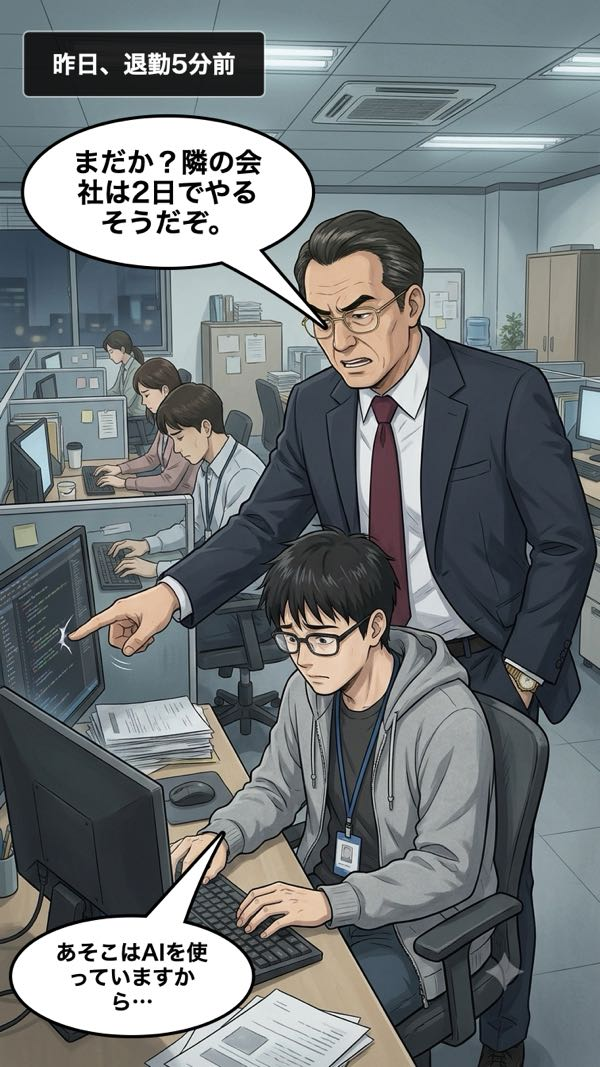
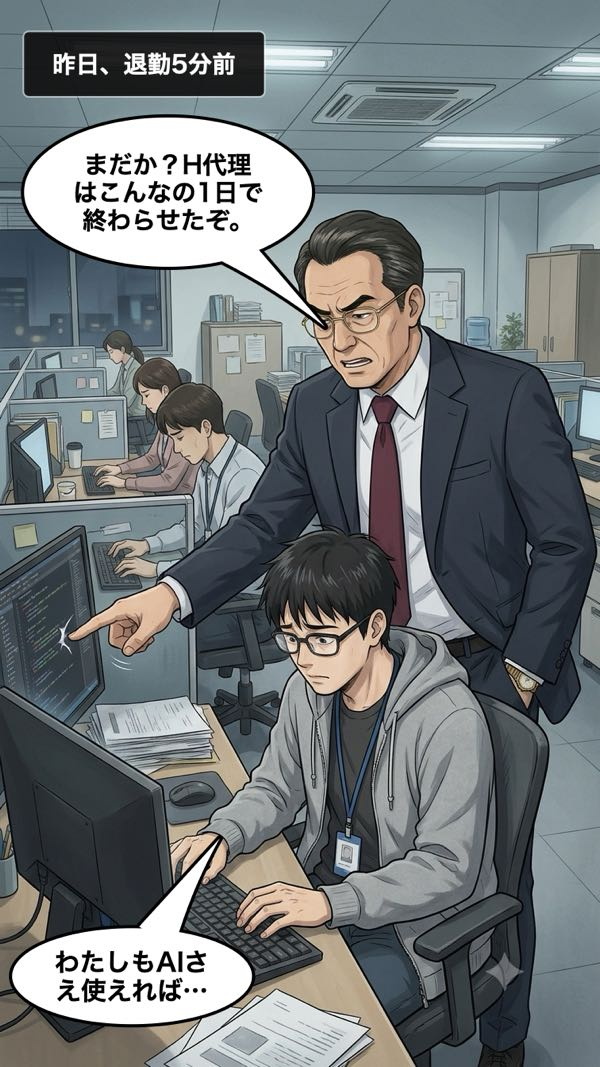
데모 만화 1화: H 선배 회상 컷 추가, 최 사장이 H와 비교하는 대사

Changed region(s): [[0.03, 0.7732, 0.42, 0.9897], [0.12, 0.1237, 0.45, 0.2165], [0.0, 0.8969, 0.03, 0.9278]]

diff --git a/demo/ja/scroll.html b/demo/ja/scroll.html
@@ -1,4 +1,4 @@
 <!doctype html><html lang="ja"><meta charset="utf-8"><title>開発者異世界 第1話（デモ）</title><meta name="viewport" content="width=device-width,initial-scale=1"><meta name="robots" content="noindex">
 <style>body{margin:0;background:#0b0c10;color:#eee;font-family:-apple-system,system-ui,sans-serif}
 a{color:#8ab4ff}.wrap{max-width:756px;margin:0 auto}img{display:block;width:100%;height:auto}
-.top{padding:14px 16px;font-size:14px;line-height:1.5}.top b{font-size:16px}.langs{margin-bottom:8px}</style><body><div class="wrap"><div class="top"><nav class="langs"><b>日本語</b> · <a href="../en/scroll.html">English</a> · <a href="../de/scroll.html">Deutsch</a> · <a href="../ko/scroll.html">한국어</a></nav><b>開発者異世界 第1話（デモ）</b><br>Hearbook のWebマンガ翻訳を試すためのデモです。お話はHearbookが作り、絵はAIで作成しました。<br><a href="paged.html">ページめくりのデモ（宇宙ねこパトロール）</a></div><img src="isekai/cut01.jpg?v=10" width="600" height="1067" alt="開発者異世界 第1話（デモ） 1"><img src="isekai/cut02.jpg?v=10" width="600" height="1067" alt="開発者異世界 第1話（デモ） 2"><img src="isekai/cut03.jpg?v=10" width="600" height="1067" alt="開発者異世界 第1話（デモ） 3"><img src="isekai/cut03-1.jpg?v=10" width="600" height="1067" alt="開発者異世界 第1話（デモ） 4"><img src="isekai/cut03-2.jpg?v=10" width="600" height="1067" alt="開発者異世界 第1話（デモ） 5"><img src="isekai/cut04.jpg?v=10" width="600" height="1067" alt="開発者異世界 第1話（デモ） 6"><img src="isekai/cut04-1.jpg?v=10" width="600" height="1067" alt="開発者異世界 第1話（デモ） 7"><img src="isekai/cut04-2.jpg?v=10" width="600" height="1067" alt="開発者異世界 第1話（デモ） 8"><img src="isekai/cut04-3.jpg?v=10" width="600" height="1067" alt="開発者異世界 第1話（デモ） 9"><img src="isekai/cut05.jpg?v=10" width="600" height="476" alt="開発者異世界 第1話（デモ） 10"><img src="isekai/cut06.jpg?v=10" width="600" height="1067" alt="開発者異世界 第1話（デモ） 11"><img src="isekai/cut07.jpg?v=10" width="600" height="294" alt="開発者異世界 第1話（デモ） 12" style="margin-bottom:220px"><img src="isekai/cut08.jpg?v=10" width="600" height="1067" alt="開発者異世界 第1話（デモ） 13"><img src="isekai/cut09.jpg?v=10" width="600" height="1067" alt="開発者異世界 第1話（デモ） 14"><img src="isekai/cut10.jpg?v=10" width="600" height="1067" alt="開発者異世界 第1話（デモ） 15"><img src="isekai/cut11.jpg?v=10" width="600" height="1067" alt="開発者異世界 第1話（デモ） 16"><img src="isekai/cut12.jpg?v=10" width="600" height="294" alt="開発者異世界 第1話（デモ） 17" style="margin-bottom:220px"><img src="isekai/cut13.jpg?v=10" width="600" height="1067" alt="開発者異世界 第1話（デモ） 18"><img src="isekai/cut14.jpg?v=10" width="600" height="1067" alt="開発者異世界 第1話（デモ） 19"><img src="isekai/cut15.jpg?v=10" width="600" height="1067" alt="開発者異世界 第1話（デモ） 20"><img src="isekai/cut16.jpg?v=10" width="600" height="1067" alt="開発者異世界 第1話（デモ） 21"><img src="isekai/cut17.jpg?v=10" width="600" height="1067" alt="開発者異世界 第1話（デモ） 22"><img src="isekai/cut18.jpg?v=10" width="600" height="1067" alt="開発者異世界 第1話（デモ） 23"><img src="isekai/cut19.jpg?v=10" width="600" height="1067" alt="開発者異世界 第1話（デモ） 24"><img src="isekai/cut20.jpg?v=10" width="600" height="1067" alt="開発者異世界 第1話（デモ） 25"><img src="isekai/cut21.jpg?v=10" width="600" height="1067" alt="開発者異世界 第1話（デモ） 26"><img src="isekai/cut22.jpg?v=10" width="600" height="294" alt="開発者異世界 第1話（デモ） 27"><img src="isekai/cut23.jpg?v=10" width="600" height="1067" alt="開発者異世界 第1話（デモ） 28"><img src="isekai/cut24.jpg?v=10" width="600" height="1067" alt="開発者異世界 第1話（デモ） 29"><img src="isekai/cut25.jpg?v=10" width="600" height="841" alt="開発者異世界 第1話（デモ） 30"><img src="isekai/cut26.jpg?v=10" width="600" height="1067" alt="開発者異世界 第1話（デモ） 31"><img src="isekai/cut27.jpg?v=10" width="600" height="1067" alt="開発者異世界 第1話（デモ） 32"><img src="isekai/cut28.jpg?v=10" width="600" height="1067" alt="開発者異世界 第1話（デモ） 33"><img src="isekai/cut29.jpg?v=10" width="600" height="1067" alt="開発者異世界 第1話（デモ） 34"><img src="isekai/cut30.jpg?v=10" width="600" height="1067" alt="開発者異世界 第1話（デモ） 35"><img src="isekai/cut31.jpg?v=10" width="600" height="1067" alt="開発者異世界 第1話（デモ） 36"><img src="isekai/cut32.jpg?v=10" width="600" height="1067" alt="開発者異世界 第1話（デモ） 37"><img src="isekai/cut33.jpg?v=10" width="600" height="1067" alt="開発者異世界 第1話（デモ） 38"><img src="isekai/cut34.jpg?v=10" width="600" height="1067" alt="開発者異世界 第1話（デモ） 39"><img src="isekai/cut35.jpg?v=10" width="600" height="1067" alt="開発者異世界 第1話（デモ） 40"><img src="isekai/cut36.jpg?v=10" width="600" height="476" alt="開発者異世界 第1話（デモ） 41"><img src="isekai/cut37.jpg?v=10" width="600" height="1067" alt="開発者異世界 第1話（デモ） 42"><img src="isekai/cut38.jpg?v=10" width="600" height="294" alt="開発者異世界 第1話（デモ） 43" style="margin-bottom:220px"><img src="isekai/cut39.jpg?v=10" width="600" height="1067" alt="開発者異世界 第1話（デモ） 44"><img src="isekai/cut40.jpg?v=10" width="600" height="294" alt="開発者異世界 第1話（デモ） 45"><img src="isekai/cut41.jpg?v=10" width="600" height="1067" alt="開発者異世界 第1話（デモ） 46"><img src="isekai/cut42.jpg?v=10" width="600" height="294" alt="開発者異世界 第1話（デモ） 47"><img src="isekai/cut43.jpg?v=10" width="600" height="1067" alt="開発者異世界 第1話（デモ） 48"><img src="isekai/cut44.jpg?v=10" width="600" height="1067" alt="開発者異世界 第1話（デモ） 49"><img src="isekai/cut45.jpg?v=10" width="600" height="1067" alt="開発者異世界 第1話（デモ） 50"><img src="isekai/cut46.jpg?v=10" width="600" height="294" alt="開発者異世界 第1話（デモ） 51"><img src="isekai/cut47.jpg?v=10" width="600" height="1067" alt="開発者異世界 第1話（デモ） 52" style="margin-bottom:220px"><img src="isekai/cut48.jpg?v=10" width="600" height="1067" alt="開発者異世界 第1話（デモ） 53"><img src="isekai/cut49.jpg?v=10" width="600" height="1067" alt="開発者異世界 第1話（デモ） 54"><img src="isekai/cut50.jpg?v=10" width="600" height="294" alt="開発者異世界 第1話（デモ） 55"><img src="isekai/cut51.jpg?v=10" width="600" height="1067" alt="開発者異世界 第1話（デモ） 56"><img src="isekai/cut52.jpg?v=10" width="600" height="1067" alt="開発者異世界 第1話（デモ） 57"><img src="isekai/cut53.jpg?v=10" width="600" height="1067" alt="開発者異世界 第1話（デモ） 58"><img src="isekai/cut54.jpg?v=10" width="600" height="1067" alt="開発者異世界 第1話（デモ） 59"><img src="isekai/cut55.jpg?v=10" width="600" height="294" alt="開発者異世界 第1話（デモ） 60"><img src="isekai/cut55-1.jpg?v=10" width="600" height="1067" alt="開発者異世界 第1話（デモ） 61"><img src="isekai/cut56.jpg?v=10" width="600" height="1067" alt="開発者異世界 第1話（デモ） 62" style="margin-bottom:220px"></div></body></html>
+.top{padding:14px 16px;font-size:14px;line-height:1.5}.top b{font-size:16px}.langs{margin-bottom:8px}</style><body><div class="wrap"><div class="top"><nav class="langs"><b>日本語</b> · <a href="../en/scroll.html">English</a> · <a href="../de/scroll.html">Deutsch</a> · <a href="../ko/scroll.html">한국어</a></nav><b>開発者異世界 第1話（デモ）</b><br>Hearbook のWebマンガ翻訳を試すためのデモです。お話はHearbookが作り、絵はAIで作成しました。<br><a href="paged.html">ページめくりのデモ（宇宙ねこパトロール）</a></div><img src="isekai/cut01.jpg?v=11" width="600" height="1067" alt="開発者異世界 第1話（デモ） 1"><img src="isekai/cut02.jpg?v=11" width="600" height="1067" alt="開発者異世界 第1話（デモ） 2"><img src="isekai/cut03.jpg?v=11" width="600" height="1067" alt="開発者異世界 第1話（デモ） 3"><img src="isekai/cut03-1.jpg?v=11" width="600" height="1067" alt="開発者異世界 第1話（デモ） 4"><img src="isekai/cut03-3.jpg?v=11" width="600" height="1067" alt="開発者異世界 第1話（デモ） 5"><img src="isekai/cut03-2.jpg?v=11" width="600" height="1067" alt="開発者異世界 第1話（デモ） 6"><img src="isekai/cut04.jpg?v=11" width="600" height="1067" alt="開発者異世界 第1話（デモ） 7"><img src="isekai/cut04-1.jpg?v=11" width="600" height="1067" alt="開発者異世界 第1話（デモ） 8"><img src="isekai/cut04-2.jpg?v=11" width="600" height="1067" alt="開発者異世界 第1話（デモ） 9"><img src="isekai/cut04-3.jpg?v=11" width="600" height="1067" alt="開発者異世界 第1話（デモ） 10"><img src="isekai/cut05.jpg?v=11" width="600" height="476" alt="開発者異世界 第1話（デモ） 11"><img src="isekai/cut06.jpg?v=11" width="600" height="1067" alt="開発者異世界 第1話（デモ） 12"><img src="isekai/cut07.jpg?v=11" width="600" height="294" alt="開発者異世界 第1話（デモ） 13" style="margin-bottom:220px"><img src="isekai/cut08.jpg?v=11" width="600" height="1067" alt="開発者異世界 第1話（デモ） 14"><img src="isekai/cut09.jpg?v=11" width="600" height="1067" alt="開発者異世界 第1話（デモ） 15"><img src="isekai/cut10.jpg?v=11" width="600" height="1067" alt="開発者異世界 第1話（デモ） 16"><img src="isekai/cut11.jpg?v=11" width="600" height="1067" alt="開発者異世界 第1話（デモ） 17"><img src="isekai/cut12.jpg?v=11" width="600" height="294" alt="開発者異世界 第1話（デモ） 18" style="margin-bottom:220px"><img src="isekai/cut13.jpg?v=11" width="600" height="1067" alt="開発者異世界 第1話（デモ） 19"><img src="isekai/cut14.jpg?v=11" width="600" height="1067" alt="開発者異世界 第1話（デモ） 20"><img src="isekai/cut15.jpg?v=11" width="600" height="1067" alt="開発者異世界 第1話（デモ） 21"><img src="isekai/cut16.jpg?v=11" width="600" height="1067" alt="開発者異世界 第1話（デモ） 22"><img src="isekai/cut17.jpg?v=11" width="600" height="1067" alt="開発者異世界 第1話（デモ） 23"><img src="isekai/cut18.jpg?v=11" width="600" height="1067" alt="開発者異世界 第1話（デモ） 24"><img src="isekai/cut19.jpg?v=11" width="600" height="1067" alt="開発者異世界 第1話（デモ） 25"><img src="isekai/cut20.jpg?v=11" width="600" height="1067" alt="開発者異世界 第1話（デモ） 26"><img src="isekai/cut21.jpg?v=11" width="600" height="1067" alt="開発者異世界 第1話（デモ） 27"><img src="isekai/cut22.jpg?v=11" width="600" height="294" alt="開発者異世界 第1話（デモ） 28"><img src="isekai/cut23.jpg?v=11" width="600" height="1067" alt="開発者異世界 第1話（デモ） 29"><img src="isekai/cut24.jpg?v=11" width="600" height="1067" alt="開発者異世界 第1話（デモ） 30"><img src="isekai/cut25.jpg?v=11" width="600" height="841" alt="開発者異世界 第1話（デモ） 31"><img src="isekai/cut26.jpg?v=11" width="600" height="1067" alt="開発者異世界 第1話（デモ） 32"><img src="isekai/cut27.jpg?v=11" width="600" height="1067" alt="開発者異世界 第1話（デモ） 33"><img src="isekai/cut28.jpg?v=11" width="600" height="1067" alt="開発者異世界 第1話（デモ） 34"><img src="isekai/cut29.jpg?v=11" width="600" height="1067" alt="開発者異世界 第1話（デモ） 35"><img src="isekai/cut30.jpg?v=11" width="600" height="1067" alt="開発者異世界 第1話（デモ） 36"><img src="isekai/cut31.jpg?v=11" width="600" height="1067" alt="開発者異世界 第1話（デモ） 37"><img src="isekai/cut32.jpg?v=11" width="600" height="1067" alt="開発者異世界 第1話（デモ） 38"><img src="isekai/cut33.jpg?v=11" width="600" height="1067" alt="開発者異世界 第1話（デモ） 39"><img src="isekai/cut34.jpg?v=11" width="600" height="1067" alt="開発者異世界 第1話（デモ） 40"><img src="isekai/cut35.jpg?v=11" width="600" height="1067" alt="開発者異世界 第1話（デモ） 41"><img src="isekai/cut36.jpg?v=11" width="600" height="476" alt="開発者異世界 第1話（デモ） 42"><img src="isekai/cut37.jpg?v=11" width="600" height="1067" alt="開発者異世界 第1話（デモ） 43"><img src="isekai/cut38.jpg?v=11" width="600" height="294" alt="開発者異世界 第1話（デモ） 44" style="margin-bottom:220px"><img src="isekai/cut39.jpg?v=11" width="600" height="1067" alt="開発者異世界 第1話（デモ） 45"><img src="isekai/cut40.jpg?v=11" width="600" height="294" alt="開発者異世界 第1話（デモ） 46"><img src="isekai/cut41.jpg?v=11" width="600" height="1067" alt="開発者異世界 第1話（デモ） 47"><img src="isekai/cut42.jpg?v=11" width="600" height="294" alt="開発者異世界 第1話（デモ） 48"><img src="isekai/cut43.jpg?v=11" width="600" height="1067" alt="開発者異世界 第1話（デモ） 49"><img src="isekai/cut44.jpg?v=11" width="600" height="1067" alt="開発者異世界 第1話（デモ） 50"><img src="isekai/cut45.jpg?v=11" width="600" height="1067" alt="開発者異世界 第1話（デモ） 51"><img src="isekai/cut46.jpg?v=11" width="600" height="294" alt="開発者異世界 第1話（デモ） 52"><img src="isekai/cut47.jpg?v=11" width="600" height="1067" alt="開発者異世界 第1話（デモ） 53" style="margin-bottom:220px"><img src="isekai/cut48.jpg?v=11" width="600" height="1067" alt="開発者異世界 第1話（デモ） 54"><img src="isekai/cut49.jpg?v=11" width="600" height="1067" alt="開発者異世界 第1話（デモ） 55"><img src="isekai/cut50.jpg?v=11" width="600" height="294" alt="開発者異世界 第1話（デモ） 56"><img src="isekai/cut51.jpg?v=11" width="600" height="1067" alt="開発者異世界 第1話（デモ） 57"><img src="isekai/cut52.jpg?v=11" width="600" height="1067" alt="開発者異世界 第1話（デモ） 58"><img src="isekai/cut53.jpg?v=11" width="600" height="1067" alt="開発者異世界 第1話（デモ） 59"><img src="isekai/cut54.jpg?v=11" width="600" height="1067" alt="開発者異世界 第1話（デモ） 60"><img src="isekai/cut55.jpg?v=11" width="600" height="294" alt="開発者異世界 第1話（デモ） 61"><img src="isekai/cut55-1.jpg?v=11" width="600" height="1067" alt="開発者異世界 第1話（デモ） 62"><img src="isekai/cut56.jpg?v=11" width="600" height="1067" alt="開発者異世界 第1話（デモ） 63" style="margin-bottom:220px"></div></body></html>

diff --git a/demo/en/scroll.html b/demo/en/scroll.html
@@ -1,4 +1,4 @@
 <!doctype html><html lang="en"><meta charset="utf-8"><title>Developer Isekai, Episode 1 (Demo)</title><meta name="viewport" content="width=device-width,initial-scale=1"><meta name="robots" content="noindex">
 <style>body{margin:0;background:#0b0c10;color:#eee;font-family:-apple-system,system-ui,sans-serif}
 a{color:#8ab4ff}.wrap{max-width:756px;margin:0 auto}img{display:block;width:100%;height:auto}
-.top{padding:14px 16px;font-size:14px;line-height:1.5}.top b{font-size:16px}.langs{margin-bottom:8px}</style><body><div class="wrap"><div class="top"><nav class="langs"><a href="../ja/scroll.html">日本語</a> · <b>English</b> · <a href="../de/scroll.html">Deutsch</a> · <a href="../ko/scroll.html">한국어</a></nav><b>Developer Isekai, Episode 1 (Demo)</b><br>A demo for trying Hearbook’s web comic translation. Story by Hearbook; art made with AI.<br><a href="paged.html">Page-by-page demo (Space Cat Patrol)</a></div><img src="isekai/cut01.jpg?v=10" width="600" height="1067" alt="Developer Isekai, Episode 1 (Demo) 1"><img src="isekai/cut02.jpg?v=10" width="600" height="1067" alt="Developer Isekai, Episode 1 (Demo) 2"><img src="isekai/cut03.jpg?v=10" width="600" height="1067" alt="Developer Isekai, Episode 1 (Demo) 3"><img src="isekai/cut03-1.jpg?v=10" width="600" height="1067" alt="Developer Isekai, Episode 1 (Demo) 4"><img src="isekai/cut03-2.jpg?v=10" width="600" height="1067" alt="Developer Isekai, Episode 1 (Demo) 5"><img src="isekai/cut04.jpg?v=10" width="600" height="1067" alt="Developer Isekai, Episode 1 (Demo) 6"><img src="isekai/cut04-1.jpg?v=10" width="600" height="1067" alt="Developer Isekai, Episode 1 (Demo) 7"><img src="isekai/cut04-2.jpg?v=10" width="600" height="1067" alt="Developer Isekai, Episode 1 (Demo) 8"><img src="isekai/cut04-3.jpg?v=10" width="600" height="1067" alt="Developer Isekai, Episode 1 (Demo) 9"><img src="isekai/cut05.jpg?v=10" width="600" height="476" alt="Developer Isekai, Episode 1 (Demo) 10"><img src="isekai/cut06.jpg?v=10" width="600" height="1067" alt="Developer Isekai, Episode 1 (Demo) 11"><img src="isekai/cut07.jpg?v=10" width="600" height="294" alt="Developer Isekai, Episode 1 (Demo) 12" style="margin-bottom:220px"><img src="isekai/cut08.jpg?v=10" width="600" height="1067" alt="Developer Isekai, Episode 1 (Demo) 13"><img src="isekai/cut09.jpg?v=10" width="600" height="1067" alt="Developer Isekai, Episode 1 (Demo) 14"><img src="isekai/cut10.jpg?v=10" width="600" height="1067" alt="Developer Isekai, Episode 1 (Demo) 15"><img src="isekai/cut11.jpg?v=10" width="600" height="1067" alt="Developer Isekai, Episode 1 (Demo) 16"><img src="isekai/cut12.jpg?v=10" width="600" height="294" alt="Developer Isekai, Episode 1 (Demo) 17" style="margin-bottom:220px"><img src="isekai/cut13.jpg?v=10" width="600" height="1067" alt="Developer Isekai, Episode 1 (Demo) 18"><img src="isekai/cut14.jpg?v=10" width="600" height="1067" alt="Developer Isekai, Episode 1 (Demo) 19"><img src="isekai/cut15.jpg?v=10" width="600" height="1067" alt="Developer Isekai, Episode 1 (Demo) 20"><img src="isekai/cut16.jpg?v=10" width="600" height="1067" alt="Developer Isekai, Episode 1 (Demo) 21"><img src="isekai/cut17.jpg?v=10" width="600" height="1067" alt="Developer Isekai, Episode 1 (Demo) 22"><img src="isekai/cut18.jpg?v=10" width="600" height="1067" alt="Developer Isekai, Episode 1 (Demo) 23"><img src="isekai/cut19.jpg?v=10" width="600" height="1067" alt="Developer Isekai, Episode 1 (Demo) 24"><img src="isekai/cut20.jpg?v=10" width="600" height="1067" alt="Developer Isekai, Episode 1 (Demo) 25"><img src="isekai/cut21.jpg?v=10" width="600" height="1067" alt="Developer Isekai, Episode 1 (Demo) 26"><img src="isekai/cut22.jpg?v=10" width="600" height="294" alt="Developer Isekai, Episode 1 (Demo) 27"><img src="isekai/cut23.jpg?v=10" width="600" height="1067" alt="Developer Isekai, Episode 1 (Demo) 28"><img src="isekai/cut24.jpg?v=10" width="600" height="1067" alt="Developer Isekai, Episode 1 (Demo) 29"><img src="isekai/cut25.jpg?v=10" width="600" height="841" alt="Developer Isekai, Episode 1 (Demo) 30"><img src="isekai/cut26.jpg?v=10" width="600" height="1067" alt="Developer Isekai, Episode 1 (Demo) 31"><img src="isekai/cut27.jpg?v=10" width="600" height="1067" alt="Developer Isekai, Episode 1 (Demo) 32"><img src="isekai/cut28.jpg?v=10" width="600" height="1067" alt="Developer Isekai, Episode 1 (Demo) 33"><img src="isekai/cut29.jpg?v=10" width="600" height="1067" alt="Developer Isekai, Episode 1 (Demo) 34"><img src="isekai/cut30.jpg?v=10" width="600" height="1067" alt="Developer Isekai, Episode 1 (Demo) 35"><img src="isekai/cut31.jpg?v=10" width="600" height="1067" alt="Developer Isekai, Episode 1 (Demo) 36"><img src="isekai/cut32.jpg?v=10" width="600" height="1067" alt="Developer Isekai, Episode 1 (Demo) 37"><img src="isekai/cut33.jpg?v=10" width="600" height="1067" alt="Developer Isekai, Episode 1 (Demo) 38"><img src="isekai/cut34.jpg?v=10" width="600" height="1067" alt="Developer Isekai, Episode 1 (Demo) 39"><img src="isekai/cut35.jpg?v=10" width="600" height="1067" alt="Developer Isekai, Episode 1 (Demo) 40"><img src="isekai/cut36.jpg?v=10" width="600" height="476" alt="Developer Isekai, Episode 1 (Demo) 41"><img src="isekai/cut37.jpg?v=10" width="600" height="1067" alt="Developer Isekai, Episode 1 (Demo) 42"><img src="isekai/cut38.jpg?v=10" width="600" height="294" alt="Developer Isekai, Episode 1 (Demo) 43" style="margin-bottom:220px"><img src="isekai/cut39.jpg?v=10" width="600" height="1067" alt="Developer Isekai, Episode 1 (Demo) 44"><img src="isekai/cut40.jpg?v=10" width="600" height="294" alt="Developer Isekai, Episode 1 (Demo) 45"><img src="isekai/cut41.jpg?v=10" width="600" height="1067" alt="Developer Isekai, Episode 1 (Demo) 46"><img src="isekai/cut42.jpg?v=10" width="600" height="294" alt="Developer Isekai, Episode 1 (Demo) 47"><img src="isekai/cut43.jpg?v=10" width="600" height="1067" alt="Developer Isekai, Episode 1 (Demo) 48"><img src="isekai/cut44.jpg?v=10" width="600" height="1067" alt="Developer Isekai, Episode 1 (Demo) 49"><img src="isekai/cut45.jpg?v=10" width="600" height="1067" alt="Developer Isekai, Episode 1 (Demo) 50"><img src="isekai/cut46.jpg?v=10" width="600" height="294" alt="Developer Isekai, Episode 1 (Demo) 51"><img src="isekai/cut47.jpg?v=10" width="600" height="1067" alt="Developer Isekai, Episode 1 (Demo) 52" style="margin-bottom:220px"><img src="isekai/cut48.jpg?v=10" width="600" height="1067" alt="Developer Isekai, Episode 1 (Demo) 53"><img src="isekai/cut49.jpg?v=10" width="600" height="1067" alt="Developer Isekai, Episode 1 (Demo) 54"><img src="isekai/cut50.jpg?v=10" width="600" height="294" alt="Developer Isekai, Episode 1 (Demo) 55"><img src="isekai/cut51.jpg?v=10" width="600" height="1067" alt="Developer Isekai, Episode 1 (Demo) 56"><img src="isekai/cut52.jpg?v=10" width="600" height="1067" alt="Developer Isekai, Episode 1 (Demo) 57"><img src="isekai/cut53.jpg?v=10" width="600" height="1067" alt="Developer Isekai, Episode 1 (Demo) 58"><img src="isekai/cut54.jpg?v=10" width="600" height="1067" alt="Developer Isekai, Episode 1 (Demo) 59"><img src="isekai/cut55.jpg?v=10" width="600" height="294" alt="Developer Isekai, Episode 1 (Demo) 60"><img src="isekai/cut55-1.jpg?v=10" width="600" height="1067" alt="Developer Isekai, Episode 1 (Demo) 61"><img src="isekai/cut56.jpg?v=10" width="600" height="1067" alt="Developer Isekai, Episode 1 (Demo) 62" style="margin-bottom:220px"></div></body></html>
+.top{padding:14px 16px;font-size:14px;line-height:1.5}.top b{font-size:16px}.langs{margin-bottom:8px}</style><body><div class="wrap"><div class="top"><nav class="langs"><a href="../ja/scroll.html">日本語</a> · <b>English</b> · <a href="../de/scroll.html">Deutsch</a> · <a href="../ko/scroll.html">한국어</a></nav><b>Developer Isekai, Episode 1 (Demo)</b><br>A demo for trying Hearbook’s web comic translation. Story by Hearbook; art made with AI.<br><a href="paged.html">Page-by-page demo (Space Cat Patrol)</a></div><img src="isekai/cut01.jpg?v=11" width="600" height="1067" alt="Developer Isekai, Episode 1 (Demo) 1"><img src="isekai/cut02.jpg?v=11" width="600" height="1067" alt="Developer Isekai, Episode 1 (Demo) 2"><img src="isekai/cut03.jpg?v=11" width="600" height="1067" alt="Developer Isekai, Episode 1 (Demo) 3"><img src="isekai/cut03-1.jpg?v=11" width="600" height="1067" alt="Developer Isekai, Episode 1 (Demo) 4"><img src="isekai/cut03-3.jpg?v=11" width="600" height="1067" alt="Developer Isekai, Episode 1 (Demo) 5"><img src="isekai/cut03-2.jpg?v=11" width="600" height="1067" alt="Developer Isekai, Episode 1 (Demo) 6"><img src="isekai/cut04.jpg?v=11" width="600" height="1067" alt="Developer Isekai, Episode 1 (Demo) 7"><img src="isekai/cut04-1.jpg?v=11" width="600" height="1067" alt="Developer Isekai, Episode 1 (Demo) 8"><img src="isekai/cut04-2.jpg?v=11" width="600" height="1067" alt="Developer Isekai, Episode 1 (Demo) 9"><img src="isekai/cut04-3.jpg?v=11" width="600" height="1067" alt="Developer Isekai, Episode 1 (Demo) 10"><img src="isekai/cut05.jpg?v=11" width="600" height="476" alt="Developer Isekai, Episode 1 (Demo) 11"><img src="isekai/cut06.jpg?v=11" width="600" height="1067" alt="Developer Isekai, Episode 1 (Demo) 12"><img src="isekai/cut07.jpg?v=11" width="600" height="294" alt="Developer Isekai, Episode 1 (Demo) 13" style="margin-bottom:220px"><img src="isekai/cut08.jpg?v=11" width="600" height="1067" alt="Developer Isekai, Episode 1 (Demo) 14"><img src="isekai/cut09.jpg?v=11" width="600" height="1067" alt="Developer Isekai, Episode 1 (Demo) 15"><img src="isekai/cut10.jpg?v=11" width="600" height="1067" alt="Developer Isekai, Episode 1 (Demo) 16"><img src="isekai/cut11.jpg?v=11" width="600" height="1067" alt="Developer Isekai, Episode 1 (Demo) 17"><img src="isekai/cut12.jpg?v=11" width="600" height="294" alt="Developer Isekai, Episode 1 (Demo) 18" style="margin-bottom:220px"><img src="isekai/cut13.jpg?v=11" width="600" height="1067" alt="Developer Isekai, Episode 1 (Demo) 19"><img src="isekai/cut14.jpg?v=11" width="600" height="1067" alt="Developer Isekai, Episode 1 (Demo) 20"><img src="isekai/cut15.jpg?v=11" width="600" height="1067" alt="Developer Isekai, Episode 1 (Demo) 21"><img src="isekai/cut16.jpg?v=11" width="600" height="1067" alt="Developer Isekai, Episode 1 (Demo) 22"><img src="isekai/cut17.jpg?v=11" width="600" height="1067" alt="Developer Isekai, Episode 1 (Demo) 23"><img src="isekai/cut18.jpg?v=11" width="600" height="1067" alt="Developer Isekai, Episode 1 (Demo) 24"><img src="isekai/cut19.jpg?v=11" width="600" height="1067" alt="Developer Isekai, Episode 1 (Demo) 25"><img src="isekai/cut20.jpg?v=11" width="600" height="1067" alt="Developer Isekai, Episode 1 (Demo) 26"><img src="isekai/cut21.jpg?v=11" width="600" height="1067" alt="Developer Isekai, Episode 1 (Demo) 27"><img src="isekai/cut22.jpg?v=11" width="600" height="294" alt="Developer Isekai, Episode 1 (Demo) 28"><img src="isekai/cut23.jpg?v=11" width="600" height="1067" alt="Developer Isekai, Episode 1 (Demo) 29"><img src="isekai/cut24.jpg?v=11" width="600" height="1067" alt="Developer Isekai, Episode 1 (Demo) 30"><img src="isekai/cut25.jpg?v=11" width="600" height="841" alt="Developer Isekai, Episode 1 (Demo) 31"><img src="isekai/cut26.jpg?v=11" width="600" height="1067" alt="Developer Isekai, Episode 1 (Demo) 32"><img src="isekai/cut27.jpg?v=11" width="600" height="1067" alt="Developer Isekai, Episode 1 (Demo) 33"><img src="isekai/cut28.jpg?v=11" width="600" height="1067" alt="Developer Isekai, Episode 1 (Demo) 34"><img src="isekai/cut29.jpg?v=11" width="600" height="1067" alt="Developer Isekai, Episode 1 (Demo) 35"><img src="isekai/cut30.jpg?v=11" width="600" height="1067" alt="Developer Isekai, Episode 1 (Demo) 36"><img src="isekai/cut31.jpg?v=11" width="600" height="1067" alt="Developer Isekai, Episode 1 (Demo) 37"><img src="isekai/cut32.jpg?v=11" width="600" height="1067" alt="Developer Isekai, Episode 1 (Demo) 38"><img src="isekai/cut33.jpg?v=11" width="600" height="1067" alt="Developer Isekai, Episode 1 (Demo) 39"><img src="isekai/cut34.jpg?v=11" width="600" height="1067" alt="Developer Isekai, Episode 1 (Demo) 40"><img src="isekai/cut35.jpg?v=11" width="600" height="1067" alt="Developer Isekai, Episode 1 (Demo) 41"><img src="isekai/cut36.jpg?v=11" width="600" height="476" alt="Developer Isekai, Episode 1 (Demo) 42"><img src="isekai/cut37.jpg?v=11" width="600" height="1067" alt="Developer Isekai, Episode 1 (Demo) 43"><img src="isekai/cut38.jpg?v=11" width="600" height="294" alt="Developer Isekai, Episode 1 (Demo) 44" style="margin-bottom:220px"><img src="isekai/cut39.jpg?v=11" width="600" height="1067" alt="Developer Isekai, Episode 1 (Demo) 45"><img src="isekai/cut40.jpg?v=11" width="600" height="294" alt="Developer Isekai, Episode 1 (Demo) 46"><img src="isekai/cut41.jpg?v=11" width="600" height="1067" alt="Developer Isekai, Episode 1 (Demo) 47"><img src="isekai/cut42.jpg?v=11" width="600" height="294" alt="Developer Isekai, Episode 1 (Demo) 48"><img src="isekai/cut43.jpg?v=11" width="600" height="1067" alt="Developer Isekai, Episode 1 (Demo) 49"><img src="isekai/cut44.jpg?v=11" width="600" height="1067" alt="Developer Isekai, Episode 1 (Demo) 50"><img src="isekai/cut45.jpg?v=11" width="600" height="1067" alt="Developer Isekai, Episode 1 (Demo) 51"><img src="isekai/cut46.jpg?v=11" width="600" height="294" alt="Developer Isekai, Episode 1 (Demo) 52"><img src="isekai/cut47.jpg?v=11" width="600" height="1067" alt="Developer Isekai, Episode 1 (Demo) 53" style="margin-bottom:220px"><img src="isekai/cut48.jpg?v=11" width="600" height="1067" alt="Developer Isekai, Episode 1 (Demo) 54"><img src="isekai/cut49.jpg?v=11" width="600" height="1067" alt="Developer Isekai, Episode 1 (Demo) 55"><img src="isekai/cut50.jpg?v=11" width="600" height="294" alt="Developer Isekai, Episode 1 (Demo) 56"><img src="isekai/cut51.jpg?v=11" width="600" height="1067" alt="Developer Isekai, Episode 1 (Demo) 57"><img src="isekai/cut52.jpg?v=11" width="600" height="1067" alt="Developer Isekai, Episode 1 (Demo) 58"><img src="isekai/cut53.jpg?v=11" width="600" height="1067" alt="Developer Isekai, Episode 1 (Demo) 59"><img src="isekai/cut54.jpg?v=11" width="600" height="1067" alt="Developer Isekai, Episode 1 (Demo) 60"><img src="isekai/cut55.jpg?v=11" width="600" height="294" alt="Developer Isekai, Episode 1 (Demo) 61"><img src="isekai/cut55-1.jpg?v=11" width="600" height="1067" alt="Developer Isekai, Episode 1 (Demo) 62"><img src="isekai/cut56.jpg?v=11" width="600" height="1067" alt="Developer Isekai, Episode 1 (Demo) 63" style="margin-bottom:220px"></div></body></html>

diff --git a/demo/ko/scroll.html b/demo/ko/scroll.html
@@ -1,4 +1,4 @@
 <!doctype html><html lang="ko"><meta charset="utf-8"><title>개발자 이세계 1화 (데모)</title><meta name="viewport" content="width=device-width,initial-scale=1"><meta name="robots" content="noindex">
 <style>body{margin:0;background:#0b0c10;color:#eee;font-family:-apple-system,system-ui,sans-serif}
 a{color:#8ab4ff}.wrap{max-width:756px;margin:0 auto}img{display:block;width:100%;height:auto}
-.top{padding:14px 16px;font-size:14px;line-height:1.5}.top b{font-size:16px}.langs{margin-bottom:8px}</style><body><div class="wrap"><div class="top"><nav class="langs"><a href="../ja/scroll.html">日本語</a> · <a href="../en/scroll.html">English</a> · <a href="../de/scroll.html">Deutsch</a> · <b>한국어</b></nav><b>개발자 이세계 1화 (데모)</b><br>Hearbook 웹 만화 번역을 체험해 보는 데모예요. 이야기는 Hearbook이 만들었고, 그림은 AI로 만들었어요.<br><a href="paged.html">쪽 넘기기 데모 (우주 고양이 순찰대)</a></div><img src="isekai/cut01.jpg?v=10" width="600" height="1067" alt="개발자 이세계 1화 (데모) 1"><img src="isekai/cut02.jpg?v=10" width="600" height="1067" alt="개발자 이세계 1화 (데모) 2"><img src="isekai/cut03.jpg?v=10" width="600" height="1067" alt="개발자 이세계 1화 (데모) 3"><img src="isekai/cut03-1.jpg?v=10" width="600" height="1067" alt="개발자 이세계 1화 (데모) 4"><img src="isekai/cut03-2.jpg?v=10" width="600" height="1067" alt="개발자 이세계 1화 (데모) 5"><img src="isekai/cut04.jpg?v=10" width="600" height="1067" alt="개발자 이세계 1화 (데모) 6"><img src="isekai/cut04-1.jpg?v=10" width="600" height="1067" alt="개발자 이세계 1화 (데모) 7"><img src="isekai/cut04-2.jpg?v=10" width="600" height="1067" alt="개발자 이세계 1화 (데모) 8"><img src="isekai/cut04-3.jpg?v=10" width="600" height="1067" alt="개발자 이세계 1화 (데모) 9"><img src="isekai/cut05.jpg?v=10" width="600" height="476" alt="개발자 이세계 1화 (데모) 10"><img src="isekai/cut06.jpg?v=10" width="600" height="1067" alt="개발자 이세계 1화 (데모) 11"><img src="isekai/cut07.jpg?v=10" width="600" height="294" alt="개발자 이세계 1화 (데모) 12" style="margin-bottom:220px"><img src="isekai/cut08.jpg?v=10" width="600" height="1067" alt="개발자 이세계 1화 (데모) 13"><img src="isekai/cut09.jpg?v=10" width="600" height="1067" alt="개발자 이세계 1화 (데모) 14"><img src="isekai/cut10.jpg?v=10" width="600" height="1067" alt="개발자 이세계 1화 (데모) 15"><img src="isekai/cut11.jpg?v=10" width="600" height="1067" alt="개발자 이세계 1화 (데모) 16"><img src="isekai/cut12.jpg?v=10" width="600" height="294" alt="개발자 이세계 1화 (데모) 17" style="margin-bottom:220px"><img src="isekai/cut13.jpg?v=10" width="600" height="1067" alt="개발자 이세계 1화 (데모) 18"><img src="isekai/cut14.jpg?v=10" width="600" height="1067" alt="개발자 이세계 1화 (데모) 19"><img src="isekai/cut15.jpg?v=10" width="600" height="1067" alt="개발자 이세계 1화 (데모) 20"><img src="isekai/cut16.jpg?v=10" width="600" height="1067" alt="개발자 이세계 1화 (데모) 21"><img src="isekai/cut17.jpg?v=10" width="600" height="1067" alt="개발자 이세계 1화 (데모) 22"><img src="isekai/cut18.jpg?v=10" width="600" height="1067" alt="개발자 이세계 1화 (데모) 23"><img src="isekai/cut19.jpg?v=10" width="600" height="1067" alt="개발자 이세계 1화 (데모) 24"><img src="isekai/cut20.jpg?v=10" width="600" height="1067" alt="개발자 이세계 1화 (데모) 25"><img src="isekai/cut21.jpg?v=10" width="600" height="1067" alt="개발자 이세계 1화 (데모) 26"><img src="isekai/cut22.jpg?v=10" width="600" height="294" alt="개발자 이세계 1화 (데모) 27"><img src="isekai/cut23.jpg?v=10" width="600" height="1067" alt="개발자 이세계 1화 (데모) 28"><img src="isekai/cut24.jpg?v=10" width="600" height="1067" alt="개발자 이세계 1화 (데모) 29"><img src="isekai/cut25.jpg?v=10" width="600" height="841" alt="개발자 이세계 1화 (데모) 30"><img src="isekai/cut26.jpg?v=10" width="600" height="1067" alt="개발자 이세계 1화 (데모) 31"><img src="isekai/cut27.jpg?v=10" width="600" height="1067" alt="개발자 이세계 1화 (데모) 32"><img src="isekai/cut28.jpg?v=10" width="600" height="1067" alt="개발자 이세계 1화 (데모) 33"><img src="isekai/cut29.jpg?v=10" width="600" height="1067" alt="개발자 이세계 1화 (데모) 34"><img src="isekai/cut30.jpg?v=10" width="600" height="1067" alt="개발자 이세계 1화 (데모) 35"><img src="isekai/cut31.jpg?v=10" width="600" height="1067" alt="개발자 이세계 1화 (데모) 36"><img src="isekai/cut32.jpg?v=10" width="600" height="1067" alt="개발자 이세계 1화 (데모) 37"><img src="isekai/cut33.jpg?v=10" width="600" height="1067" alt="개발자 이세계 1화 (데모) 38"><img src="isekai/cut34.jpg?v=10" width="600" height="1067" alt="개발자 이세계 1화 (데모) 39"><img src="isekai/cut35.jpg?v=10" width="600" height="1067" alt="개발자 이세계 1화 (데모) 40"><img src="isekai/cut36.jpg?v=10" width="600" height="476" alt="개발자 이세계 1화 (데모) 41"><img src="isekai/cut37.jpg?v=10" width="600" height="1067" alt="개발자 이세계 1화 (데모) 42"><img src="isekai/cut38.jpg?v=10" width="600" height="294" alt="개발자 이세계 1화 (데모) 43" style="margin-bottom:220px"><img src="isekai/cut39.jpg?v=10" width="600" height="1067" alt="개발자 이세계 1화 (데모) 44"><img src="isekai/cut40.jpg?v=10" width="600" height="294" alt="개발자 이세계 1화 (데모) 45"><img src="isekai/cut41.jpg?v=10" width="600" height="1067" alt="개발자 이세계 1화 (데모) 46"><img src="isekai/cut42.jpg?v=10" width="600" height="294" alt="개발자 이세계 1화 (데모) 47"><img src="isekai/cut43.jpg?v=10" width="600" height="1067" alt="개발자 이세계 1화 (데모) 48"><img src="isekai/cut44.jpg?v=10" width="600" height="1067" alt="개발자 이세계 1화 (데모) 49"><img src="isekai/cut45.jpg?v=10" width="600" height="1067" alt="개발자 이세계 1화 (데모) 50"><img src="isekai/cut46.jpg?v=10" width="600" height="294" alt="개발자 이세계 1화 (데모) 51"><img src="isekai/cut47.jpg?v=10" width="600" height="1067" alt="개발자 이세계 1화 (데모) 52" style="margin-bottom:220px"><img src="isekai/cut48.jpg?v=10" width="600" height="1067" alt="개발자 이세계 1화 (데모) 53"><img src="isekai/cut49.jpg?v=10" width="600" height="1067" alt="개발자 이세계 1화 (데모) 54"><img src="isekai/cut50.jpg?v=10" width="600" height="294" alt="개발자 이세계 1화 (데모) 55"><img src="isekai/cut51.jpg?v=10" width="600" height="1067" alt="개발자 이세계 1화 (데모) 56"><img src="isekai/cut52.jpg?v=10" width="600" height="1067" alt="개발자 이세계 1화 (데모) 57"><img src="isekai/cut53.jpg?v=10" width="600" height="1067" alt="개발자 이세계 1화 (데모) 58"><img src="isekai/cut54.jpg?v=10" width="600" height="1067" alt="개발자 이세계 1화 (데모) 59"><img src="isekai/cut55.jpg?v=10" width="600" height="294" alt="개발자 이세계 1화 (데모) 60"><img src="isekai/cut55-1.jpg?v=10" width="600" height="1067" alt="개발자 이세계 1화 (데모) 61"><img src="isekai/cut56.jpg?v=10" width="600" height="1067" alt="개발자 이세계 1화 (데모) 62" style="margin-bottom:220px"></div></body></html>
+.top{padding:14px 16px;font-size:14px;line-height:1.5}.top b{font-size:16px}.langs{margin-bottom:8px}</style><body><div class="wrap"><div class="top"><nav class="langs"><a href="../ja/scroll.html">日本語</a> · <a href="../en/scroll.html">English</a> · <a href="../de/scroll.html">Deutsch</a> · <b>한국어</b></nav><b>개발자 이세계 1화 (데모)</b><br>Hearbook 웹 만화 번역을 체험해 보는 데모예요. 이야기는 Hearbook이 만들었고, 그림은 AI로 만들었어요.<br><a href="paged.html">쪽 넘기기 데모 (우주 고양이 순찰대)</a></div><img src="isekai/cut01.jpg?v=11" width="600" height="1067" alt="개발자 이세계 1화 (데모) 1"><img src="isekai/cut02.jpg?v=11" width="600" height="1067" alt="개발자 이세계 1화 (데모) 2"><img src="isekai/cut03.jpg?v=11" width="600" height="1067" alt="개발자 이세계 1화 (데모) 3"><img src="isekai/cut03-1.jpg?v=11" width="600" height="1067" alt="개발자 이세계 1화 (데모) 4"><img src="isekai/cut03-3.jpg?v=11" width="600" height="1067" alt="개발자 이세계 1화 (데모) 5"><img src="isekai/cut03-2.jpg?v=11" width="600" height="1067" alt="개발자 이세계 1화 (데모) 6"><img src="isekai/cut04.jpg?v=11" width="600" height="1067" alt="개발자 이세계 1화 (데모) 7"><img src="isekai/cut04-1.jpg?v=11" width="600" height="1067" alt="개발자 이세계 1화 (데모) 8"><img src="isekai/cut04-2.jpg?v=11" width="600" height="1067" alt="개발자 이세계 1화 (데모) 9"><img src="isekai/cut04-3.jpg?v=11" width="600" height="1067" alt="개발자 이세계 1화 (데모) 10"><img src="isekai/cut05.jpg?v=11" width="600" height="476" alt="개발자 이세계 1화 (데모) 11"><img src="isekai/cut06.jpg?v=11" width="600" height="1067" alt="개발자 이세계 1화 (데모) 12"><img src="isekai/cut07.jpg?v=11" width="600" height="294" alt="개발자 이세계 1화 (데모) 13" style="margin-bottom:220px"><img src="isekai/cut08.jpg?v=11" width="600" height="1067" alt="개발자 이세계 1화 (데모) 14"><img src="isekai/cut09.jpg?v=11" width="600" height="1067" alt="개발자 이세계 1화 (데모) 15"><img src="isekai/cut10.jpg?v=11" width="600" height="1067" alt="개발자 이세계 1화 (데모) 16"><img src="isekai/cut11.jpg?v=11" width="600" height="1067" alt="개발자 이세계 1화 (데모) 17"><img src="isekai/cut12.jpg?v=11" width="600" height="294" alt="개발자 이세계 1화 (데모) 18" style="margin-bottom:220px"><img src="isekai/cut13.jpg?v=11" width="600" height="1067" alt="개발자 이세계 1화 (데모) 19"><img src="isekai/cut14.jpg?v=11" width="600" height="1067" alt="개발자 이세계 1화 (데모) 20"><img src="isekai/cut15.jpg?v=11" width="600" height="1067" alt="개발자 이세계 1화 (데모) 21"><img src="isekai/cut16.jpg?v=11" width="600" height="1067" alt="개발자 이세계 1화 (데모) 22"><img src="isekai/cut17.jpg?v=11" width="600" height="1067" alt="개발자 이세계 1화 (데모) 23"><img src="isekai/cut18.jpg?v=11" width="600" height="1067" alt="개발자 이세계 1화 (데모) 24"><img src="isekai/cut19.jpg?v=11" width="600" height="1067" alt="개발자 이세계 1화 (데모) 25"><img src="isekai/cut20.jpg?v=11" width="600" height="1067" alt="개발자 이세계 1화 (데모) 26"><img src="isekai/cut21.jpg?v=11" width="600" height="1067" alt="개발자 이세계 1화 (데모) 27"><img src="isekai/cut22.jpg?v=11" width="600" height="294" alt="개발자 이세계 1화 (데모) 28"><img src="isekai/cut23.jpg?v=11" width="600" height="1067" alt="개발자 이세계 1화 (데모) 29"><img src="isekai/cut24.jpg?v=11" width="600" height="1067" alt="개발자 이세계 1화 (데모) 30"><img src="isekai/cut25.jpg?v=11" width="600" height="841" alt="개발자 이세계 1화 (데모) 31"><img src="isekai/cut26.jpg?v=11" width="600" height="1067" alt="개발자 이세계 1화 (데모) 32"><img src="isekai/cut27.jpg?v=11" width="600" height="1067" alt="개발자 이세계 1화 (데모) 33"><img src="isekai/cut28.jpg?v=11" width="600" height="1067" alt="개발자 이세계 1화 (데모) 34"><img src="isekai/cut29.jpg?v=11" width="600" height="1067" alt="개발자 이세계 1화 (데모) 35"><img src="isekai/cut30.jpg?v=11" width="600" height="1067" alt="개발자 이세계 1화 (데모) 36"><img src="isekai/cut31.jpg?v=11" width="600" height="1067" alt="개발자 이세계 1화 (데모) 37"><img src="isekai/cut32.jpg?v=11" width="600" height="1067" alt="개발자 이세계 1화 (데모) 38"><img src="isekai/cut33.jpg?v=11" width="600" height="1067" alt="개발자 이세계 1화 (데모) 39"><img src="isekai/cut34.jpg?v=11" width="600" height="1067" alt="개발자 이세계 1화 (데모) 40"><img src="isekai/cut35.jpg?v=11" width="600" height="1067" alt="개발자 이세계 1화 (데모) 41"><img src="isekai/cut36.jpg?v=11" width="600" height="476" alt="개발자 이세계 1화 (데모) 42"><img src="isekai/cut37.jpg?v=11" width="600" height="1067" alt="개발자 이세계 1화 (데모) 43"><img src="isekai/cut38.jpg?v=11" width="600" height="294" alt="개발자 이세계 1화 (데모) 44" style="margin-bottom:220px"><img src="isekai/cut39.jpg?v=11" width="600" height="1067" alt="개발자 이세계 1화 (데모) 45"><img src="isekai/cut40.jpg?v=11" width="600" height="294" alt="개발자 이세계 1화 (데모) 46"><img src="isekai/cut41.jpg?v=11" width="600" height="1067" alt="개발자 이세계 1화 (데모) 47"><img src="isekai/cut42.jpg?v=11" width="600" height="294" alt="개발자 이세계 1화 (데모) 48"><img src="isekai/cut43.jpg?v=11" width="600" height="1067" alt="개발자 이세계 1화 (데모) 49"><img src="isekai/cut44.jpg?v=11" width="600" height="1067" alt="개발자 이세계 1화 (데모) 50"><img src="isekai/cut45.jpg?v=11" width="600" height="1067" alt="개발자 이세계 1화 (데모) 51"><img src="isekai/cut46.jpg?v=11" width="600" height="294" alt="개발자 이세계 1화 (데모) 52"><img src="isekai/cut47.jpg?v=11" width="600" height="1067" alt="개발자 이세계 1화 (데모) 53" style="margin-bottom:220px"><img src="isekai/cut48.jpg?v=11" width="600" height="1067" alt="개발자 이세계 1화 (데모) 54"><img src="isekai/cut49.jpg?v=11" width="600" height="1067" alt="개발자 이세계 1화 (데모) 55"><img src="isekai/cut50.jpg?v=11" width="600" height="294" alt="개발자 이세계 1화 (데모) 56"><img src="isekai/cut51.jpg?v=11" width="600" height="1067" alt="개발자 이세계 1화 (데모) 57"><img src="isekai/cut52.jpg?v=11" width="600" height="1067" alt="개발자 이세계 1화 (데모) 58"><img src="isekai/cut53.jpg?v=11" width="600" height="1067" alt="개발자 이세계 1화 (데모) 59"><img src="isekai/cut54.jpg?v=11" width="600" height="1067" alt="개발자 이세계 1화 (데모) 60"><img src="isekai/cut55.jpg?v=11" width="600" height="294" alt="개발자 이세계 1화 (데모) 61"><img src="isekai/cut55-1.jpg?v=11" width="600" height="1067" alt="개발자 이세계 1화 (데모) 62"><img src="isekai/cut56.jpg?v=11" width="600" height="1067" alt="개발자 이세계 1화 (데모) 63" style="margin-bottom:220px"></div></body></html>
